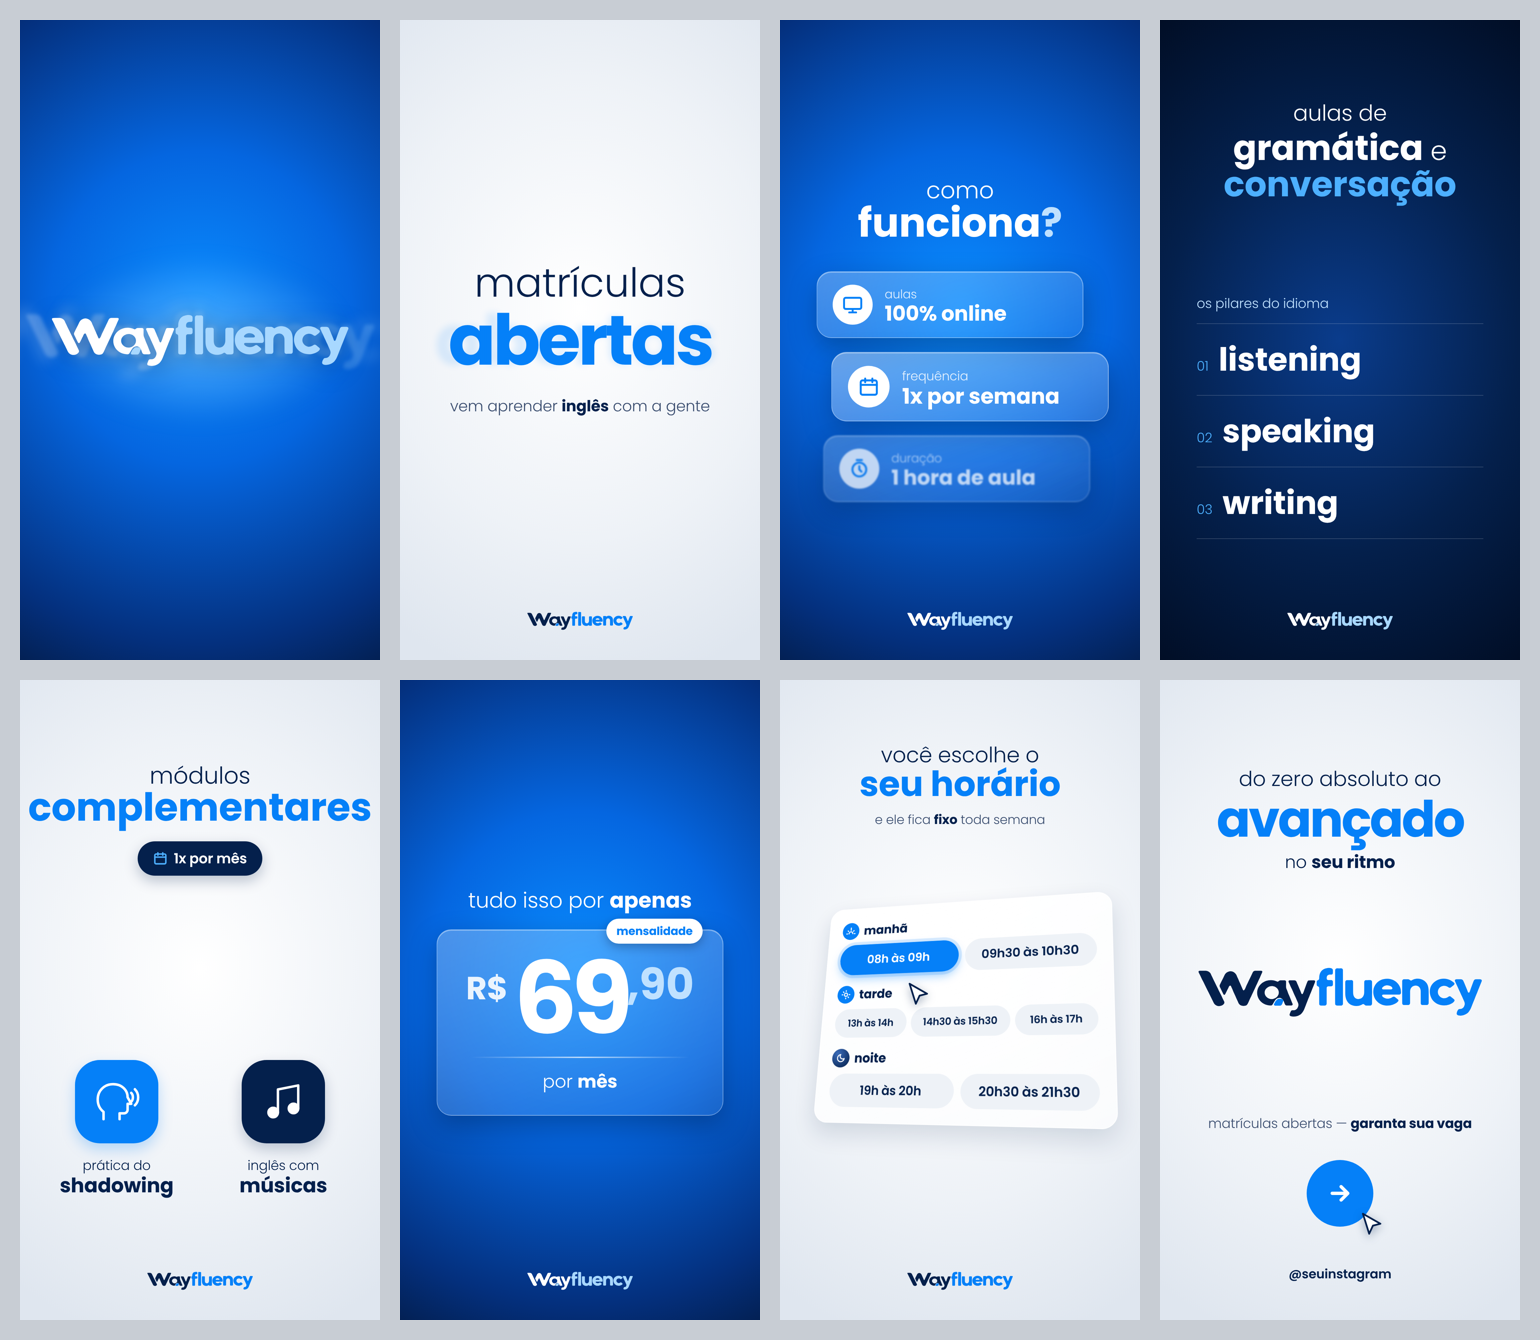
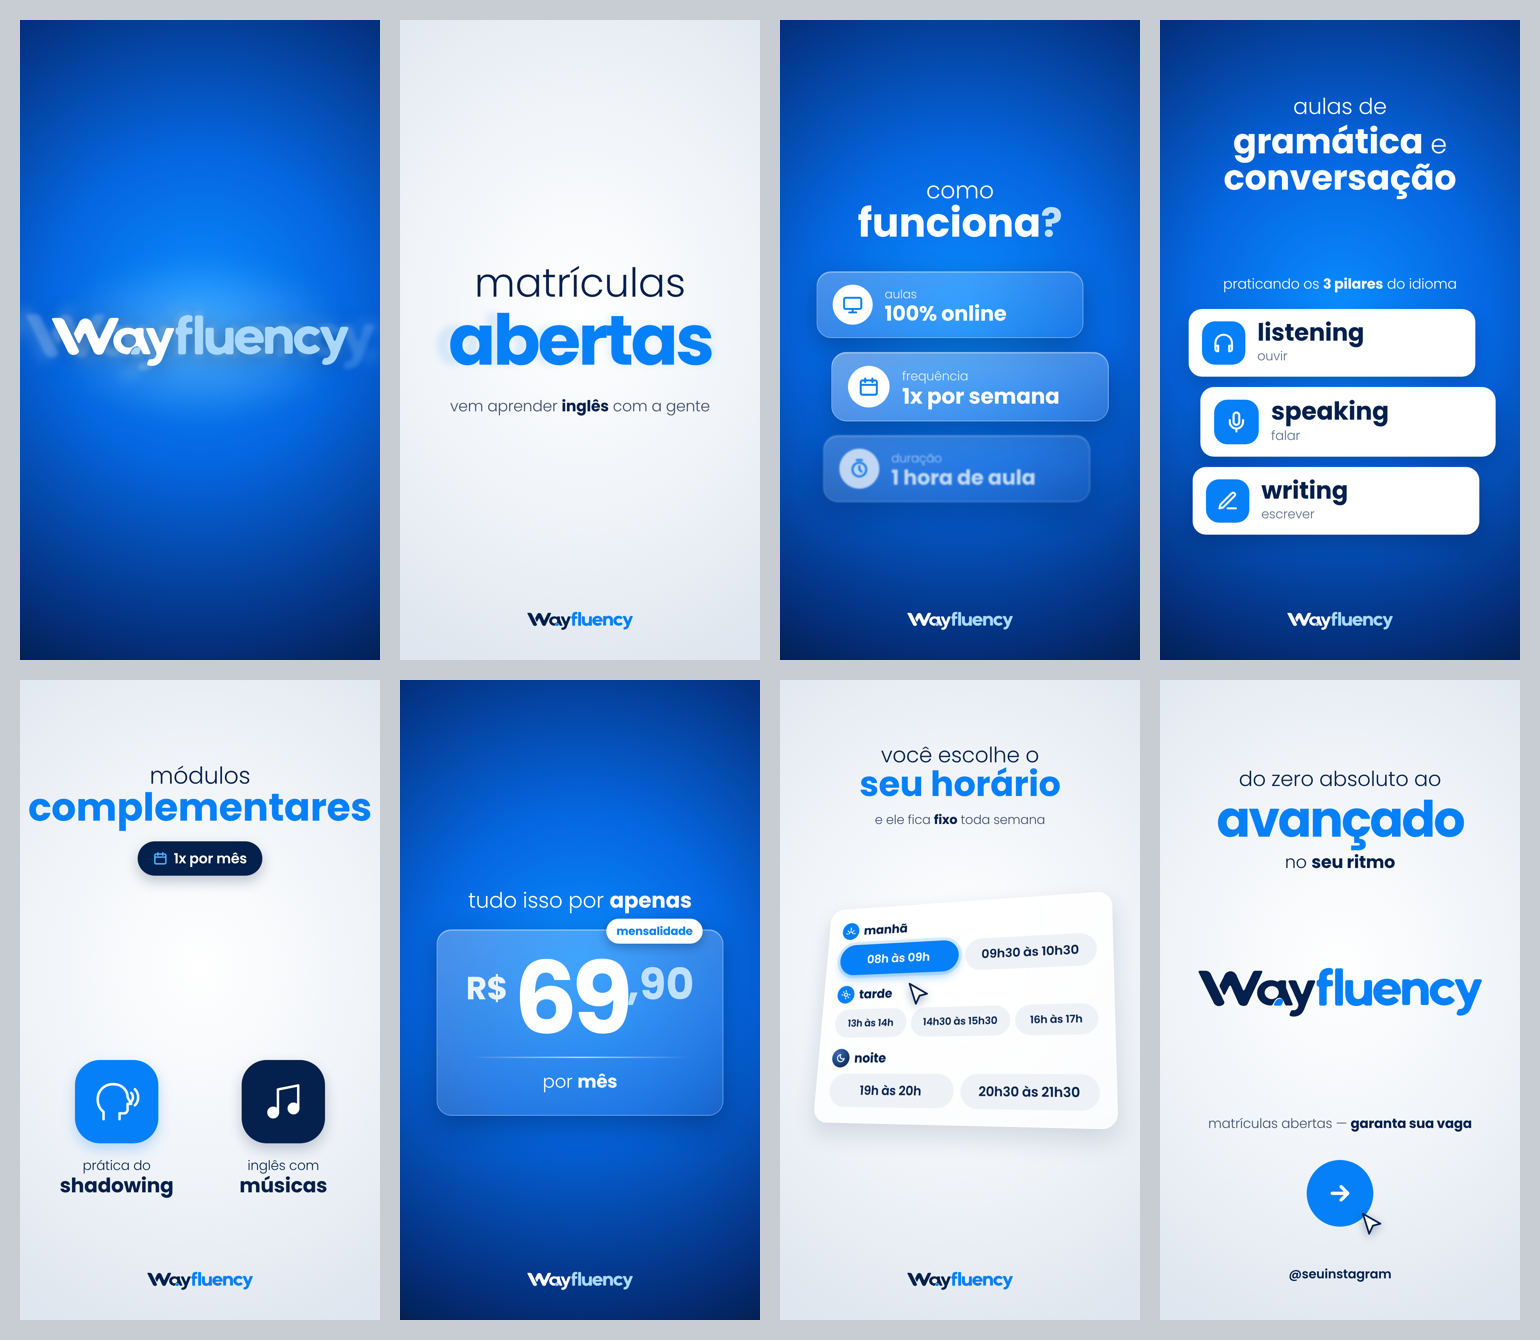
Storyboard: redo scene 4 on bright blue with white cards
Claude-Session: https://claude.ai/code/session_01RMhrmHK1fNyWJa9GvddMtA

Changed region(s): [[0.7481, 0.0, 0.9974, 0.4896]]

diff --git a/storyboard/cenas.html b/storyboard/cenas.html
@@ -84,17 +84,26 @@ svg{display:block}
   <div class="logo-sm"><img src="wayfluency-logo-branca.svg"></div>
 </section>
 
-<!-- ============ CENA 4 — aulas de (fundo navy, lista tipográfica) ============ -->
-<section class="s bg-navy" id="c4">
-  <div style="position:absolute;top:230px;width:100%;text-align:center">
+<!-- ============ CENA 4 — aulas de (fundo azul, cards brancos) ============ -->
+<section class="s bg-blue" id="c4">
+  <div style="position:absolute;top:210px;width:100%;text-align:center">
     <div class="t-light" style="font-size:66px">aulas de</div>
-    <div class="t-bold" style="font-size:104px;line-height:1.05">gramática <span class="t-light" style="font-size:80px">e</span><br><span style="color:var(--blue-l)">conversação</span></div>
+    <div class="t-bold" style="font-size:104px;line-height:1.05">gramática <span class="t-light" style="font-size:80px">e</span><br>conversação</div>
   </div>
-  <div class="abs" style="left:110px;right:110px;top:820px;display:flex;flex-direction:column;gap:0">
-    <div class="t-light" style="font-size:40px;color:var(--sky);margin-bottom:30px">os pilares do idioma</div>
-    <div style="display:flex;align-items:baseline;gap:30px;padding:34px 0;border-top:2px solid rgba(255,255,255,.18)"><span class="t-light" style="font-size:40px;color:var(--blue-l)">01</span><span class="t-bold" style="font-size:96px">listening</span></div>
-    <div style="display:flex;align-items:baseline;gap:30px;padding:34px 0;border-top:2px solid rgba(255,255,255,.18)"><span class="t-light" style="font-size:40px;color:var(--blue-l)">02</span><span class="t-bold" style="font-size:96px">speaking</span></div>
-    <div style="display:flex;align-items:baseline;gap:30px;padding:34px 0;border-top:2px solid rgba(255,255,255,.18);border-bottom:2px solid rgba(255,255,255,.18)"><span class="t-light" style="font-size:40px;color:var(--blue-l)">03</span><span class="t-bold" style="font-size:96px">writing</span></div>
+  <div class="abs" style="left:110px;right:110px;top:760px;display:flex;flex-direction:column;gap:34px">
+    <div class="t-light" style="font-size:42px;text-align:center;margin-bottom:10px">praticando os <b class="t-bold">3 pilares</b> do idioma</div>
+    <div style="background:#fff;border-radius:40px;padding:34px 40px;display:flex;align-items:center;gap:36px;box-shadow:0 24px 50px rgba(2,20,51,.25);transform:translateX(-24px)">
+      <div class="tile" style="width:130px;height:130px;flex:none;box-shadow:none"><svg width="66" height="66" viewBox="0 0 24 24" fill="none" stroke="#fff" stroke-width="2.2" stroke-linecap="round" stroke-linejoin="round"><path d="M3 18v-6a9 9 0 0 1 18 0v6"/><path d="M21 19a2 2 0 0 1-2 2h-1v-6h3zM3 19a2 2 0 0 0 2 2h1v-6H3z"/></svg></div>
+      <div style="color:var(--navy)"><div class="t-bold" style="font-size:72px;line-height:1">listening</div><div class="t-light" style="font-size:38px;color:#5A6B8A;margin-top:6px">ouvir</div></div>
+    </div>
+    <div style="background:#fff;border-radius:40px;padding:34px 40px;display:flex;align-items:center;gap:36px;box-shadow:0 24px 50px rgba(2,20,51,.25);transform:translateX(24px) scale(1.03)">
+      <div class="tile" style="width:130px;height:130px;flex:none;box-shadow:none"><svg width="66" height="66" viewBox="0 0 24 24" fill="none" stroke="#fff" stroke-width="2.2" stroke-linecap="round" stroke-linejoin="round"><path d="M12 2a3 3 0 0 0-3 3v7a3 3 0 0 0 6 0V5a3 3 0 0 0-3-3z"/><path d="M19 10v2a7 7 0 0 1-14 0v-2M12 19v3"/></svg></div>
+      <div style="color:var(--navy)"><div class="t-bold" style="font-size:72px;line-height:1">speaking</div><div class="t-light" style="font-size:38px;color:#5A6B8A;margin-top:6px">falar</div></div>
+    </div>
+    <div style="background:#fff;border-radius:40px;padding:34px 40px;display:flex;align-items:center;gap:36px;box-shadow:0 24px 50px rgba(2,20,51,.25);transform:translateX(-12px)">
+      <div class="tile" style="width:130px;height:130px;flex:none;box-shadow:none"><svg width="66" height="66" viewBox="0 0 24 24" fill="none" stroke="#fff" stroke-width="2.2" stroke-linecap="round" stroke-linejoin="round"><path d="M12 20h9"/><path d="M16.5 3.5a2.1 2.1 0 0 1 3 3L7 19l-4 1 1-4z"/></svg></div>
+      <div style="color:var(--navy)"><div class="t-bold" style="font-size:72px;line-height:1">writing</div><div class="t-light" style="font-size:38px;color:#5A6B8A;margin-top:6px">escrever</div></div>
+    </div>
   </div>
   <div class="logo-sm"><img src="wayfluency-logo-branca.svg"></div>
 </section>
